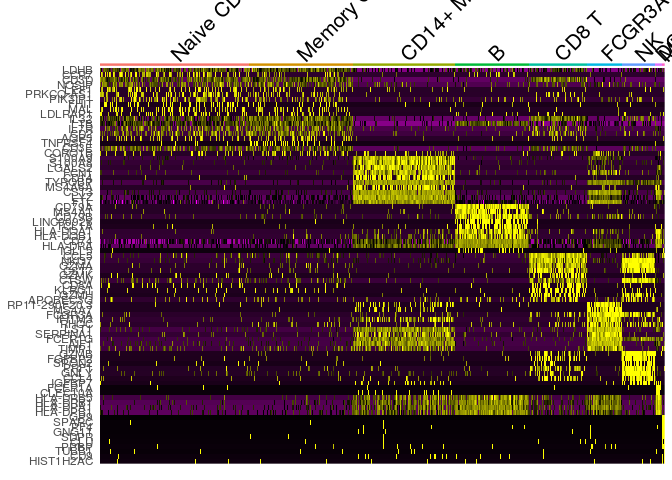
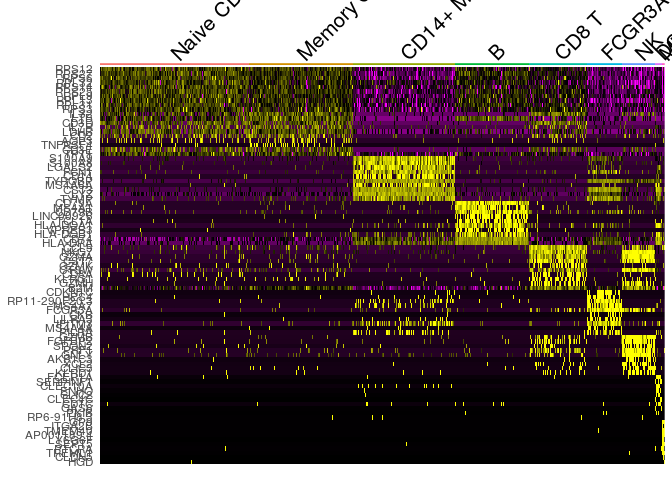
finish logFC method, update the tutorial

diff --git a/src/Venice.cpp b/src/Venice.cpp
@@ -366,7 +366,7 @@ std::vector<struct GeneResult> VeniceTest(
             int r = c_it.row();
 
             exp[r].push_back({*c_it, cid});
-            total_exp[r][cid] += expm1(*c_it);
+            total_exp[r][cid] += *c_it;
             --zero_cnt[r][cid];
         }
     }

diff --git a/docs/Tutorial_1__Use_Venice_to_find_marker_genes.md b/docs/Tutorial_1__Use_Venice_to_find_marker_genes.md
@@ -31,12 +31,12 @@ First let take a look at the structure of the pre-processed object
     ##          162          155           32           14
 
 Now we find marker genes for all annotated clusters using
-`VeniceAllMarkers` function in Signac
+`VeniceAllMarkers` function in Signac.
 
     system.time(pbmc.markers <- VeniceAllMarkers(pbmc, only.pos = TRUE, logfc.threshold = 0.25, verbose = F))
 
     ##    user  system elapsed 
-    ##   4.008   0.281   4.289
+    ##   5.258   0.279   5.540
 
     pbmc.markers %>% group_by(cluster) %>% top_n(n = 2, wt = Log2.fold.change)
 
@@ -44,24 +44,24 @@ Now we find marker genes for all annotated clusters using
     ## # Groups:   cluster [9]
     ##    Gene.Name Log2.fold.change Log10.adjusted.… Log10.p.value cluster
     ##    <fct>                <dbl>            <dbl>         <dbl> <fct>  
-    ##  1 CCR7                  1.33           -26.9         -28.9  Naive …
-    ##  2 LDLRAP1               1.10            -7.78         -9.38 Naive …
-    ##  3 LTB                   1.29           -77.4         -81.0  Memory…
-    ##  4 AQP3                  1.24           -14.8         -16.9  Memory…
-    ##  5 S100A9                5.57          -288.         -292.   CD14+ …
-    ##  6 S100A8                5.48          -281.         -285.   CD14+ …
-    ##  7 CD79A                 4.31          -210.         -213.   B      
-    ##  8 TCL1A                 3.59           -97.9        -101.   B      
-    ##  9 CCL5                  3.06          -140.         -144.   CD8 T  
-    ## 10 GZMK                  2.95           -58.5         -61.8  CD8 T  
-    ## 11 LST1                  3.09           -94.0         -98.2  FCGR3A…
-    ## 12 FCGR3A                3.31           -82.8         -86.2  FCGR3A…
-    ## 13 GZMB                  4.83          -103.         -107.   NK     
-    ## 14 GNLY                  5.32          -103.         -107.   NK     
-    ## 15 HLA-DPB1              2.87           -11.7         -15.3  DC     
-    ## 16 FCER1A                3.87           -11.6         -15.2  DC     
-    ## 17 PPBP                  8.58            -9.11        -13.2  Mk     
-    ## 18 PF4                   7.24            -9.11        -13.2  Mk     
+    ##  1 CD3D                 0.631           -55.6          -58.0 Naive …
+    ##  2 CCR7                 0.639           -26.9          -28.9 Naive …
+    ##  3 IL32                 0.738           -83.7          -87.9 Memory…
+    ##  4 IL7R                 0.666           -35.0          -37.6 Memory…
+    ##  5 S100A9               1.95           -288.          -292.  CD14+ …
+    ##  6 S100A8               2.00           -281.          -285.  CD14+ …
+    ##  7 CD79A                1.83           -210.          -213.  B      
+    ##  8 CD79B                1.54           -178.          -181.  B      
+    ##  9 CCL5                 1.57           -140.          -144.  CD8 T  
+    ## 10 NKG7                 1.50           -137.          -141.  CD8 T  
+    ## 11 LST1                 1.43            -94.0          -98.2 FCGR3A…
+    ## 12 FCGR3A               1.59            -82.8          -86.2 FCGR3A…
+    ## 13 GZMB                 2.00           -103.          -107.  NK     
+    ## 14 GNLY                 2.06           -103.          -107.  NK     
+    ## 15 HLA-DQA1             1.40            -12.4          -16.5 DC     
+    ## 16 FCER1A               1.60            -11.6          -15.2 DC     
+    ## 17 PPBP                 2.72             -9.11         -13.2 Mk     
+    ## 18 PF4                  2.54             -9.11         -13.2 Mk     
     ## # … with 3 more variables: Dissimilarity <dbl>, Bin.count <dbl>,
     ## #   Up.Down.score <dbl>
 
@@ -70,7 +70,7 @@ Compare with `Seurat::FindAllMarkers` results
     system.time(pbmc.markers.seurat <- FindAllMarkers(pbmc, only.pos = TRUE, logfc.threshold = 0.25, verbose = F, min.cells.feature = 0))
 
     ##    user  system elapsed 
-    ## 122.215   0.918 123.130
+    ## 114.057   1.416 115.483
 
     pbmc.markers.seurat %>% group_by(cluster) %>% top_n(n = 2, wt = avg_logFC)
 
@@ -105,34 +105,44 @@ type (cluster). We only plot top 20 features (all features if less than
 
 ### Heatmap of marker genes found by Venice
 
-    top10 <- pbmc.markers %>% group_by(cluster) %>% top_n(n = 10, wt = Log2.fold.change)
+    top10 <- pbmc.markers %>% group_by(cluster) %>% top_n(n = 10, wt = -Log10.adjusted.p.value)
     DoHeatmap(pbmc, features = as.character(top10$Gene.Name)) + NoLegend()
 
 ![](Tutorial_1__Use_Venice_to_find_marker_genes_files/figure-markdown_strict/unnamed-chunk-6-1.png)
 
 ### Heatmap of marker genes found by Seurat default method
 
-    top10 <- pbmc.markers.seurat %>% group_by(cluster) %>% top_n(n = 10, wt = avg_logFC)
+    top10 <- pbmc.markers.seurat %>% group_by(cluster) %>% top_n(n = 10, wt = -p_val_adj)
     DoHeatmap(pbmc, features = as.character(top10$gene)) + NoLegend()
 
 ![](Tutorial_1__Use_Venice_to_find_marker_genes_files/figure-markdown_strict/unnamed-chunk-7-1.png)
 
+To perform the Differential expression (DE) test on two individual
+clusters, one can use the function `VeniceFindMarkers`. We designed the
+user interface that is similar to Seurat R package (Butler et al.,
+Nature Biotechnology 2018). Please specify two cluster names `ident.1`,
+`ident.2` as the parameters.
+
+### Find DE genes between CD14+ Mono and FCGR3A+ Mono using Venice algorithm
+
     head(Signac::VeniceFindMarkers(pbmc, ident.1 = "CD14+ Mono", ident.2 = "FCGR3A+ Mono", logfc.threshold = log(2)))
 
     ##   Gene.Name Log2.fold.change Log10.adjusted.p.value Log10.p.value
-    ## 1       LYZ         2.614275              -74.02894     -78.16610
-    ## 2    FCGR3A        -3.776553              -71.17833     -75.01446
-    ## 3    S100A8         3.766437              -62.41254     -66.07258
-    ## 4    S100A9         3.299060              -61.23949     -64.77459
-    ## 5    IFITM2        -2.085807              -56.30591     -59.74410
-    ## 6    LGALS2         2.956704              -49.87441     -53.23342
+    ## 2    FCGR3A       -1.6631222              -71.17833     -75.01446
+    ## 3    S100A8        1.2752262              -62.41254     -66.07258
+    ## 4    S100A9        0.7930380              -61.23949     -64.77459
+    ## 5    IFITM2       -0.8010430              -56.30591     -59.74410
+    ## 6    LGALS2        1.2904962              -49.87441     -53.23342
+    ## 7      GPX1        0.7329328              -39.49077     -42.78284
     ##   Dissimilarity Bin.count Up.Down.score
-    ## 1     0.7480570         4             1
     ## 2     0.7303167         3            -1
     ## 3     0.6406856         5             1
     ## 4     0.6282687         5             1
     ## 5     0.5724071         4            -1
     ## 6     0.5219134         3             1
+    ## 7     0.4105139         4             1
+
+### Find DE genes between CD14+ Mono and FCGR3A+ Mono using Seurat default algorithm
 
     head(FindMarkers(pbmc, ident.1 = "CD14+ Mono", ident.2 = "FCGR3A+ Mono", logfc.threshold = log(2)))
 
